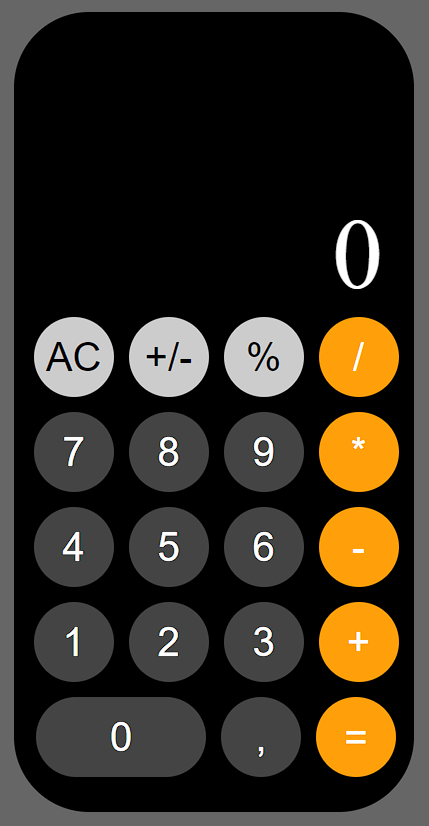
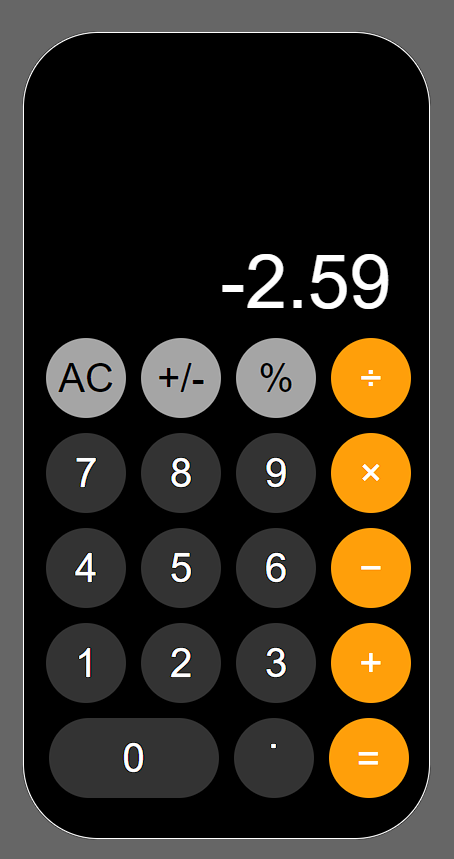
...

diff --git a/project.1 - calculator/index.html b/project.1 - calculator/index.html
@@ -4,7 +4,7 @@
 <head>
     <meta charset="UTF-8">
     <meta name="viewport" content="width=device-width, initial-scale=1.0">
-    <title>Kalkulator prosty</title>
+    <title>Simple calculator</title>
     <link rel="stylesheet" href="style.css">
 </head>
 
@@ -12,40 +12,40 @@
     <div id="container">
         <div id="screen">
 
-            <p id="value">0</p>
+            <input type="text" placeholder="0" id="value" disabled>
 
         </div>
         <div id="form">
 
 
-            <button class="buttonTop">AC</button>
-            <button class="buttonTop">+/-</button>
-            <button class="buttonTop">%</button>
-            <button class="buttonRight">/</button>
+            <button class="buttonTop" onclick="clearScreen()">AC</button>
+            <button class="buttonTop" onclick="toogleSing()">+/-</button>
+            <button class="buttonTop" onclick="percentCalc()">&percnt;</button>
+            <button class="buttonRight">&divide;</button>
 
-            <button>7</button>
-            <button>8</button>
-            <button>9</button>
-            <button class="buttonRight">*</button>
+            <button onclick="appendToScreen('7')">7</button>
+            <button onclick="appendToScreen('8')">8</button>
+            <button onclick="appendToScreen('9')">9</button>
+            <button class="buttonRight">&times;</button>
 
-            <button>4</button>
-            <button>5</button>
-            <button>6</button>
-            <button class="buttonRight">-</button>
+            <button onclick="appendToScreen('4')">4</button>
+            <button onclick="appendToScreen('5')">5</button>
+            <button onclick="appendToScreen('6')">6</button>
+            <button class="buttonRight">&minus;</button>
 
-            <button>1</button>
-            <button>2</button>
-            <button>3</button>
-            <button class="buttonRight">+</button>
+            <button onclick="appendToScreen('1')">1</button>
+            <button onclick="appendToScreen('2')">2</button>
+            <button onclick="appendToScreen('3')">3</button>
+            <button class="buttonRight">&plus;</button>
 
-            <button id="button_0">0</button>
-            <button>,</button>
-            <button class="buttonRight">=</button>
+            <button id="button_0" onclick="appendToScreen('0')"">0</button>
+            <button onclick=" appendToScreen('.')">&dot;</button>
+            <button class="buttonRight">&equals;</button>
 
 
         </div>
     </div>
-    <script src="app.js"></script>
+    <script src="calculator.js"></script>
 </body>
 
 </html>

diff --git a/project.1 - calculator/style.css b/project.1 - calculator/style.css
@@ -1,15 +1,16 @@
 body {
-    margin: 0px;
+    margin: 0;
     background-color: #666666;
 }
 
 #container {
     margin: auto;
     margin-top: 75px;
-    width: 400px;
-    height: 800px;
+    width: 405px;
+    height: 805px;
     border-radius: 75px;
     background-color: black;
+    border: 1px solid white;
 }
 
 #screen {
@@ -20,13 +21,20 @@ body {
 }
 
 #value {
+    width: 88.5%;
+    height: 475px;
+    bottom: 0;
+    right: 0;
+    margin: 10px;
     color: white;
-    font-size: 100px;
-    margin-right: 25px;
-    position: absolute;
-    top: 160px;
-    margin-left: 318px;
+    font-size: 75px;
+    background-color: transparent;
+    border: none;
+    text-align: right;
+}
 
+::placeholder {
+    color: white;
 }
 
 #form {
@@ -47,7 +55,7 @@ button {
     height: 80px;
     width: 80px;
     border-radius: 100px;
-    background-color: #444444;
+    background-color: #333333;
     border: none;
     font-size: 40px;
     cursor: pointer;
@@ -55,12 +63,12 @@ button {
 }
 
 .buttonTop {
-    background-color: #cccccc;
+    background-color: #a5a5a5;
     color: black;
 }
 
 .buttonTop:hover {
-    background-color: #999999;
+    background-color: #949494;
 }
 
 .buttonRight {
@@ -73,7 +81,7 @@ button {
 }
 
 button:hover:not(.buttonTop):not(.buttonRight) {
-    background-color: #333333;
+    background-color: #222222;
 }
 
 #button_0 {

diff --git a/project.1 - calculator/calculator.js b/project.1 - calculator/calculator.js
@@ -1,0 +1,37 @@
+function appendToScreen(value) {
+    var screen = document.getElementById("value");
+    console.log(screen.value);
+
+    screen.value = screen.value + value
+
+
+    console.log(screen.value);
+}
+
+function clearScreen() {
+
+    document.getElementById("value").value = ""
+
+}
+
+function toogleSing() {
+
+    var number = document.getElementById("value").value
+
+    var newNumber = number - (number * 2)
+
+    document.getElementById("value").value = newNumber
+    console.log(newNumber)
+
+}
+
+function percentCalc() {
+
+    var number = document.getElementById("value").value
+
+    var newNumber = number / 100
+
+    document.getElementById("value").value = newNumber
+    console.log(newNumber)
+
+}
